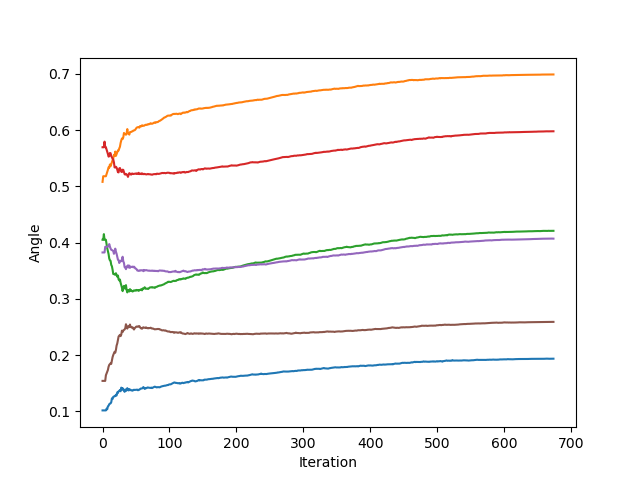
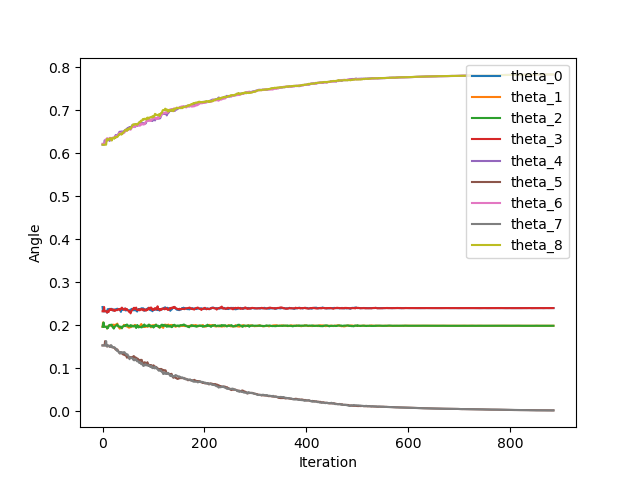
mm

diff --git a/custom_optimizer.py b/custom_optimizer.py
@@ -28,7 +28,7 @@ class E_optimizer:
 
     def optim(self):
         con = {'type':"ineq", 'fun':self.constraint}
-        opt = scipy.optimize.minimize(self.func, self.x0, jac = False,args = self.args, constraints = con, method = self.method, options={'rhobeg':0.001, 'disp':True})
+        opt = scipy.optimize.minimize(self.func, self.x0, jac = False,args = self.args, constraints = con, method = self.method)
         return opt
 
 
@@ -48,20 +48,20 @@ class E_optim_cirq:
         self.energy.append(self.func(x, *self.args))
 
     def optim(self):
-        opt = scipy.optimize.minimize(self.func, self.x0,args = self.args, method = self.method, callback = self.callback)
+        opt = scipy.optimize.minimize(self.func, self.x0,args = self.args, method = self.method, callback = self.callback,options={'rhobeg':0.01})
         if self.plot:
             iterations = len(self.angles)
-            print(self.angles)
-            self.angles = np.array(self.angles).reshape(iterations, len(self.x0))
+            self.angles = np.array(self.angles).reshape(iterations, len(self.x0), order = "F")
             plt.ylabel("Angle")
             plt.xlabel("Iteration")
-            plt.plot(self.angles)
+            plt.plot(self.angles, label = ["theta_{}".format(i) for i in range(len(self.x0))])
+            plt.legend()
             plt.savefig("angles.png")
             plt.clf()
 
-            plt.ylabel("Log(Energy)")
+            plt.ylabel("Energy")
             plt.xlabel("Iteration")
-            plt.plot(np.log(self.energy))
+            plt.plot(np.log(np.abs(self.energy)))
             plt.savefig("Energy.png")
             plt.clf()
 

diff --git a/K_finding.py b/K_finding.py
@@ -1,9 +1,9 @@
 from K_cell_searching import *
 from tqdm import tqdm
 
-for N in [7]:
-    L = N + N%2
-    HVA = L
+for N in [5]:
+    L = 2
+    HVA = False
     X_H = -1
     ansatz = QAOA(N, L)
     H = TFIM(N, X_H)
@@ -15,7 +15,7 @@ for N in [7]:
     input = [N, "QAOA", "TFIM", X_H, L, order, boundary, iterations]
     #gradient-free optimization
     #methods = ["Nelder-Mead", "Powell", "CG", "BFGS", "L-BFGS-B", "TNC", "COBYLA", "SLSQP", "trust-constr", "dogleg", "trust-ncg", "trust-exact", "trust-krylov"]
-    methods = ["COBYLA"]
+    methods = ["SLSQP"]
     for method in methods:
         start = time()
         print(f"method: {method}")

diff --git a/K_cell_searching.py b/K_cell_searching.py
@@ -78,7 +78,7 @@ def find_K(N, ansatz, H, iterations, order, boundary = "hypersphere",log=True, m
         K_init = distribute_over_gates(HVA, N, K_init)
     else:
         theta_init = [1/np.pi/16]*len(ansatz)
-        K_init= list(np.random.randint(4, size = len(ansatz)))
+        K_init= [0]*len(ansatz)
 
     
     K = K_init.copy()
